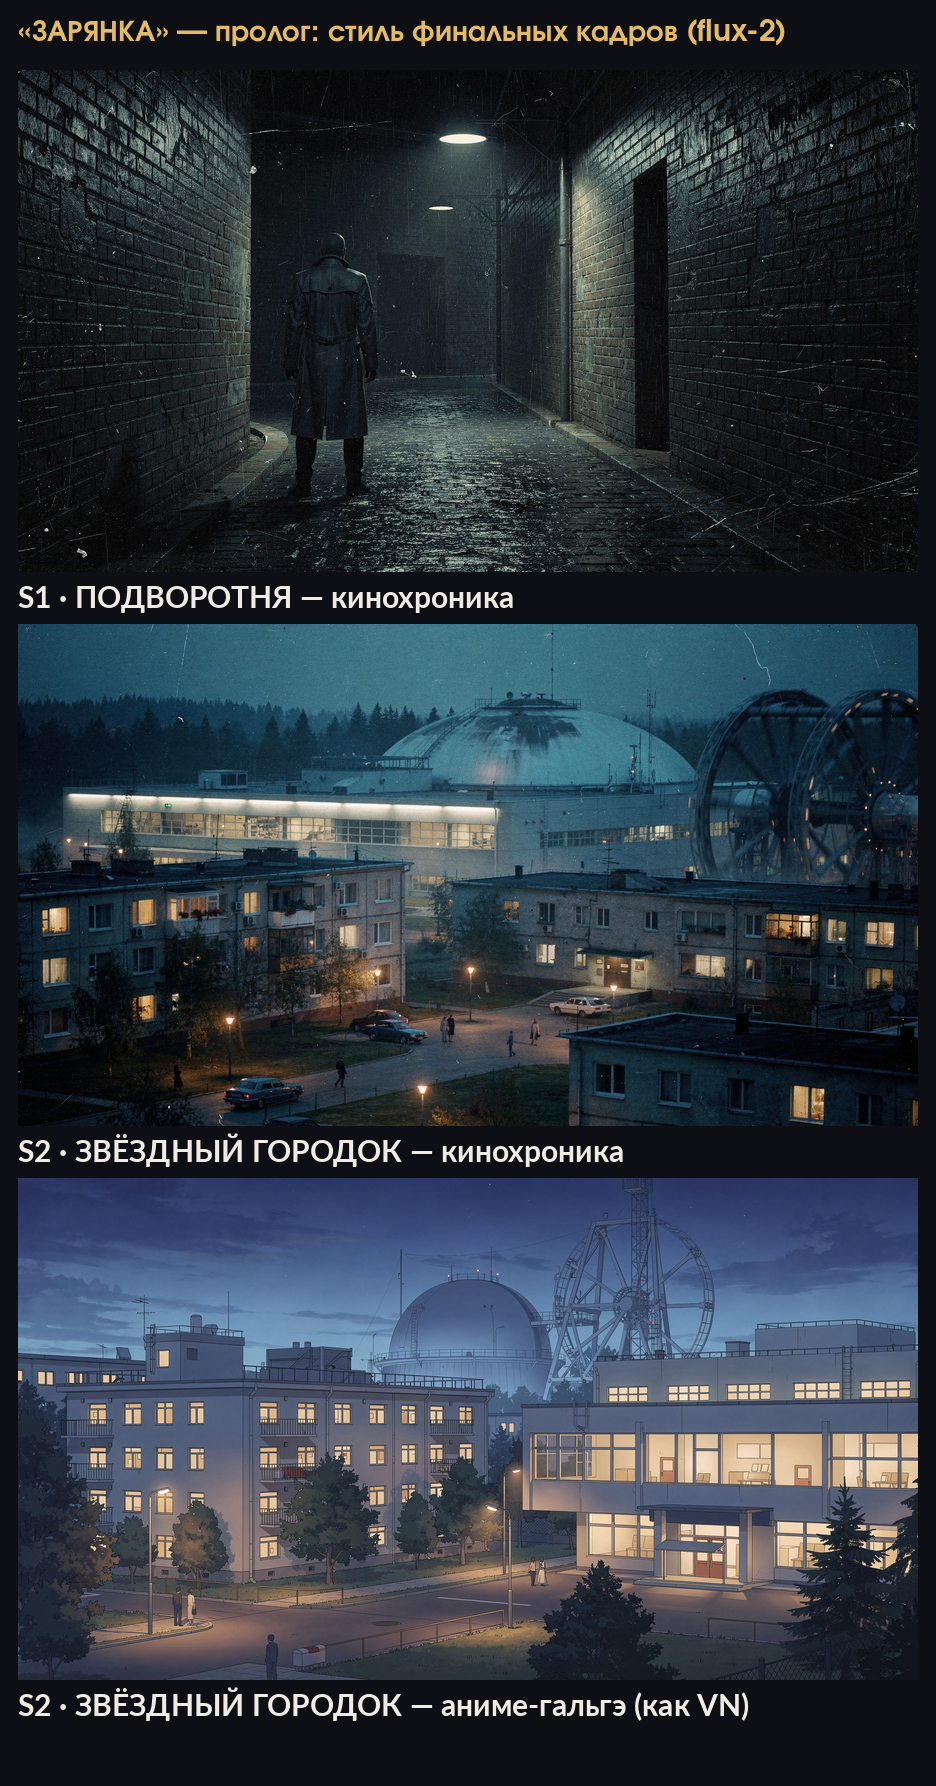
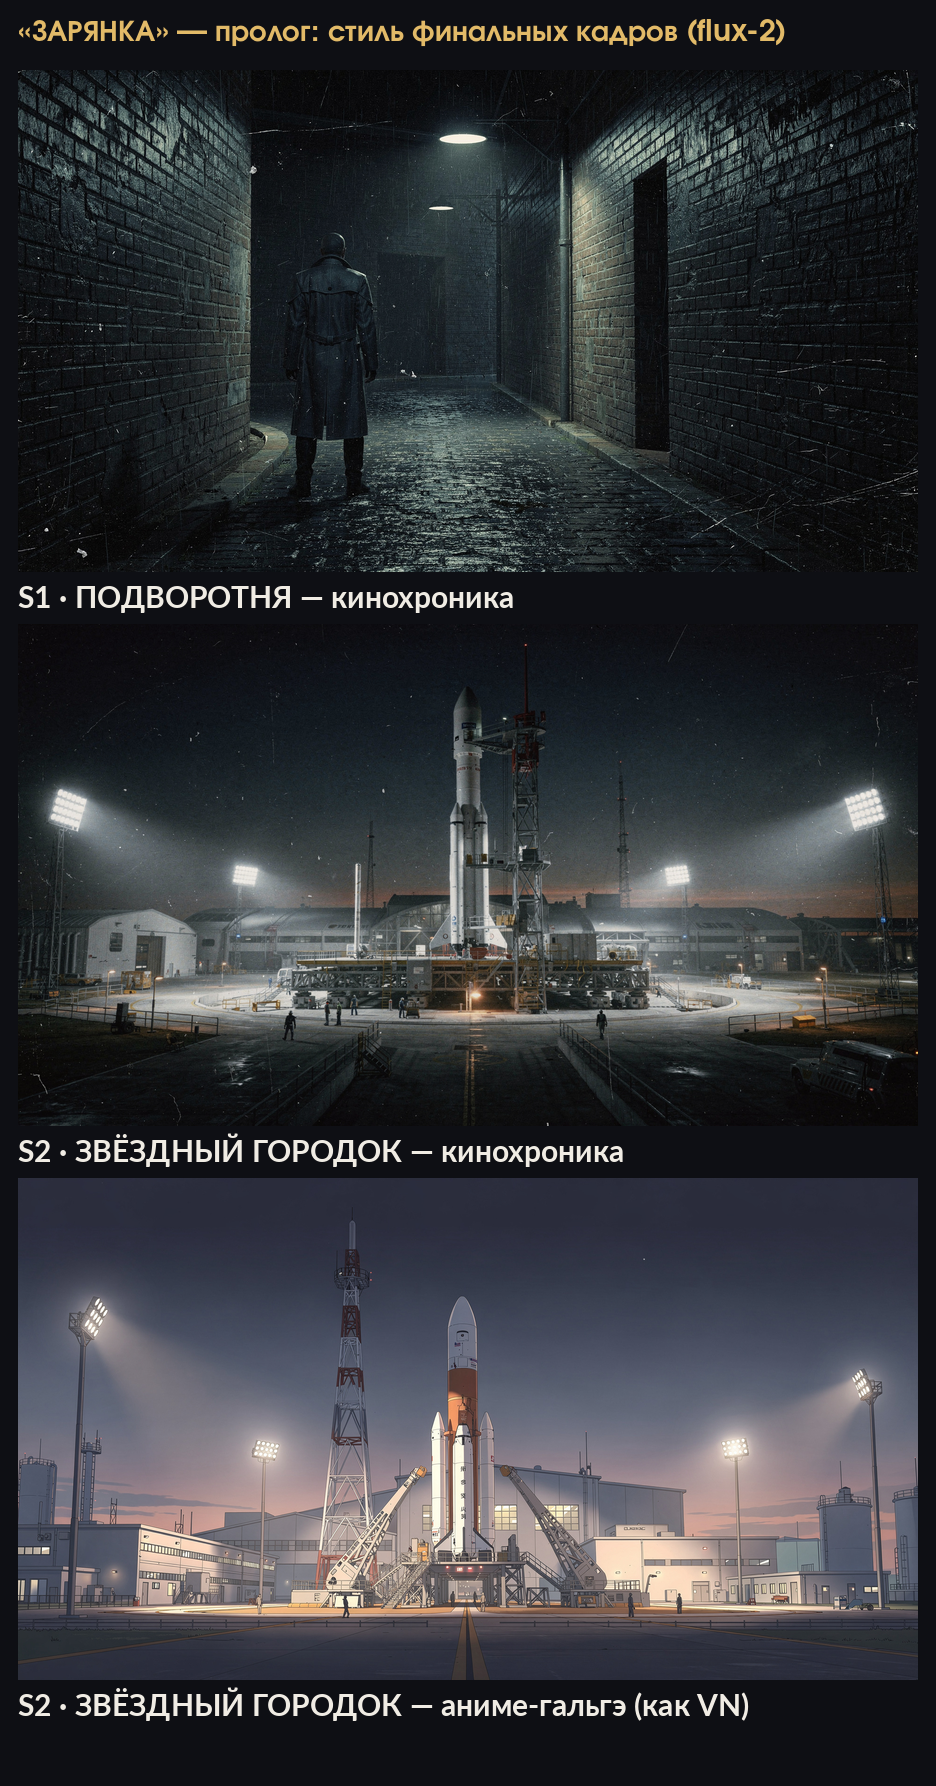
Пролог S2: ракеты возвращены (космодром, ракета вертикально); аниматик пересобран

diff --git a/_prolog_frames.py b/_prolog_frames.py
@@ -95,42 +95,45 @@ for _ in range(220):
 chronicle_tag(d, "ХРОНИКА · 2061")
 save(im, "s1.png")
 
-# ---------------------------------------------------------------- S2 Звёздный городок
-# ВАЖНО (правка заказчика 2026-10-11): Звёздный городок — небольшой городок в Подмосковье,
-# ЦЕНТР ПОДГОТОВКИ КОСМОНАВТОВ (тренажёры, центрифуга, гидролаборатория, медицина).
-# Крупных космических ракет там НЕТ (ракеты — Байконур). Ракету из кадра убрали.
-im = vgrad((FW, FH), (28, 36, 64), (12, 15, 26))
+# ---------------------------------------------------------------- S2 КОСМОДРОМ (ракета)
+# Правка заказчика 2026-10-11: РАКЕТЫ ВОЗВРАЩАЕМ — «ракеты красиво и понятно».
+# В прологе это космодром (Байконур), а Звёздный городок (ЦПК) — отдельной врезкой ПОЗЖЕ.
+im = vgrad((FW, FH), (26, 34, 62), (10, 13, 24))
 d = ImageDraw.Draw(im)
-# закатное зарево
-d.ellipse([1620, 720, 2200, 1180], fill=(54, 50, 72))
-d.rectangle([0, 1120, FW, FH], fill=(14, 16, 24))   # земля
-# жилые дома городка (низкие, тёплые окна)
-for x, w, h in ((120, 300, 190), (450, 260, 230), (740, 300, 200), (1080, 280, 240)):
-    d.rectangle([x, 1120 - h, x + w, 1120], fill=(50, 56, 78))
-    for wy in range(1120 - h + 34, 1120 - 26, 48):
-        for wx in range(x + 24, x + w - 30, 58):
-            d.rectangle([wx, wy, wx + 28, wy + 28], fill=(158, 172, 120))
-# центр подготовки: длинный корпус с окнами
-d.rectangle([1380, 780, 2360, 1120], fill=(58, 64, 88))
-for wx in range(1410, 2340, 74):
-    d.rectangle([wx, 820, wx + 40, 1120], fill=(74, 82, 110))
-d.rectangle([1380, 760, 2360, 800], fill=(78, 86, 112))
-# купол гидролаборатории
-d.pieslice([1560, 560, 1960, 860], 180, 360, fill=(72, 80, 108))
-# центрифуга: башня + вращающаяся стрела
-d.rectangle([850, 800, 910, 1120], fill=(46, 52, 72))
-d.ellipse([852, 762, 908, 818], fill=(122, 130, 152))
-d.line([(880, 790), (1130, 640)], fill=(154, 162, 184), width=14)
-d.ellipse([1112, 622, 1168, 678], fill=(176, 184, 204))
-# прожекторы-мачты
-for x in (600, 1760):
-    d.line([(x, 1120), (x - 36, 900)], fill=(120, 126, 150), width=4)
-    d.ellipse([x - 66, 840, x + 6, 912], fill=(120, 128, 150))
-# люди у корпуса
-for x in range(260, 1340, 150):
-    person(d, x, 1010, 110, (10, 12, 20))
-d.text((1870, 1070), "ЦПК", font=f(GOTHIC, 44), fill=(226, 186, 104), anchor="ma")
-chronicle_tag(d, "ЗВЁЗДНЫЙ ГОРОДОК · ЦЕНТР ПОДГОТОВКИ")
+# предрассветное зарево у горизонта
+d.ellipse([1560, 780, 2320, 1260], fill=(66, 58, 74))
+d.rectangle([0, 1120, FW, FH], fill=(14, 16, 24))   # земля/бетон
+# --- ракета ------------------------------------------------
+cx = 820
+d.polygon([(cx - 96, 1120), (cx - 62, 470), (cx, 250), (cx + 62, 470), (cx + 96, 1120)],
+          fill=(208, 212, 222))
+d.polygon([(cx, 250), (cx + 62, 470), (cx, 430)], fill=(150, 156, 168))
+# ступени и красные пояса
+for yy, ww, col in ((520, 60, RED), (720, 66, (198, 202, 214)), (900, 72, (198, 202, 214)), (1040, 78, (198, 202, 214))):
+    d.rectangle([cx - ww, yy, cx + ww, yy + 58], fill=col)
+# боковые блоки (пакеты первой ступени)
+for sx in (cx - 150, cx + 150):
+    d.polygon([(sx - 34, 1120), (sx - 30, 560), (sx, 470), (sx + 30, 560), (sx + 34, 1120)],
+              fill=(188, 192, 204))
+    d.rectangle([sx - 30, 560, sx + 30, 640], fill=RED)
+# стартовый стол + кабель-мачта
+d.rectangle([cx - 210, 1090, cx + 210, 1130], fill=(40, 44, 58))
+d.rectangle([cx + 210, 360, cx + 256, 1120], fill=(60, 66, 84))
+for gy in range(420, 1100, 90):
+    d.line([(cx + 256, gy), (cx + 104, gy + 30)], fill=(92, 98, 118), width=6)
+# --- модули/ангары справа ---------------------------------
+for i, (x, w, h) in enumerate(((1500, 480, 210), (2040, 420, 170), (560, 260, 130))):
+    col = (56, 64, 90) if i % 2 == 0 else (46, 54, 78)
+    d.rectangle([x, 1120 - h, x + w, 1120], fill=col)
+    d.rectangle([x, 1120 - h, x + w, 1120 - h + 24], fill=(80, 90, 120))
+# --- прожекторы-мачты --------------------------------------
+for x in (380, 1360, 1960):
+    d.line([(x, 1120), (x - 34, 900)], fill=(120, 126, 150), width=4)
+    d.ellipse([x - 64, 840, x + 4, 908], fill=(126, 132, 154))
+# --- люди для масштаба -------------------------------------
+for x in range(1180, 2360, 160):
+    person(d, x, 1010, 120, (10, 12, 20))
+chronicle_tag(d, "КОСМОДРОМ · 2061")
 save(im, "s2.png")
 
 # ---------------------------------------------------------------- S3 вопрос

diff --git a/_prolog_final_frames2.py b/_prolog_final_frames2.py
@@ -16,11 +16,10 @@ ANIME = ("стиль японской визуальной новеллы (galge
          "пастельная палитра, спокойное рассеянное освещение. НЕ фотореализм, НЕ 3D, "
          "НИКАКОГО текста, надписей, букв и логотипов.")
 
-CORE = ("Звёздный городок — небольшой закрытый городок Центра подготовки космонавтов в "
-        "Подмосковье поздним вечером: низкие жилые дома с тёплым светом окон, длинный "
-        "корпус центра подготовки, купол гидролаборатории, вращающаяся центрифуга, "
-        "несколько силуэтов людей, синие сумерки. ВАЖНО: НЕ ракета, НЕ космодром, "
-        "НЕ стартовый стол — только городок и центр подготовки.")
+CORE = ("Космодром ночью: высокая белая многоступенчатая ракета СТОИТ ВЕРТИКАЛЬНО на стартовом "
+        "столе, готова к пуску (не лёжа, не на транспорте). Рядом кабель-мачта и стартовые фермы, "
+        "низкие монтажно-испытательные корпуса и ангары, прожекторы на мачтах, маленькие силуэты "
+        "людей для масштаба, тёмное предрассветное небо, широкий панорамный кадр, ощущение масштаба.")
 
 JOBS = [("prolog_s2_cin_0", CORE, CHRON), ("prolog_s2_anime_0", CORE, ANIME)]
 for name, core, style in JOBS:

diff --git a/_gh_push18.py b/_gh_push18.py
@@ -1,0 +1,26 @@
+# -*- coding: utf-8 -*-
+"""Пуш: ракеты возвращены в S2 (космодром), аниматик пересобран."""
+import os, subprocess
+
+HERE = os.path.dirname(os.path.abspath(__file__))
+KEY = "/home/ivan/.nanobot/workspace/.ssh/github_ed25519"
+KH = "/home/ivan/.nanobot/workspace/.ssh/known_hosts"
+ENV = dict(os.environ, GIT_SSH_COMMAND=(
+    f"ssh -i {KEY} -o IdentitiesOnly=yes -o UserKnownHostsFile={KH} "
+    f"-o StrictHostKeyChecking=no"))
+
+
+def sh(cmd, timeout=900):
+    p = subprocess.run(cmd, shell=True, cwd=HERE, capture_output=True, text=True,
+                       timeout=timeout, env=ENV)
+    return p.returncode, (p.stdout or "").strip(), (p.stderr or "").strip()
+
+
+print("add rc:", sh("git add -A")[0])
+rc, out, err = sh("git diff --cached --stat | tail -2")
+print("stat:", out)
+rc, out, err = sh('git commit -m "Пролог S2: ракеты возвращены (космодром, ракета вертикально); аниматик пересобран" || true')
+print("commit:", (out or err)[:300])
+rc, out, err = sh("git push origin rebuild")
+print("push rc=", rc, out[-200:], "ERR:", err[-200:])
+print("HEAD:", sh("git log --oneline -1")[1])

diff --git a/PROLOG_SHOTLIST.md b/PROLOG_SHOTLIST.md
@@ -16,7 +16,7 @@
 |---|------|------|-------------|--------|------|
 | **P0** | 0:00–0:08 | ИНТРО-ЗНАЧОК (3D К2) | значок в темноте, «дыхание»; поворот на **ребро** — мелькает гравировка-пасхалка `ЛМД · Ц. 67 КОП.`; докрут на **оборот-иллюминатор**; металл тает → вспышка | фикс, лёгкий наезд | муз. **стинг** (искра/звон) |
 | **S1** | 0:08–0:20 | ТЁМНАЯ ПОДВОРОТНЯ | «Кто бросил клич…» — силуэты у стены, всплывает зачёркнутый плакат-вопрос `МАРС — ДЕЛО ОБЩЕЕ?` | фикс + медленный пан | хроника (зерно) + **VO** |
-| **S2** | 0:20–0:34 | ЗВЁЗДНЫЙ ГОРОДОК (ЦПК) | «экспедиция набиралась, модули строились…» — **городок и Центр подготовки космонавтов: корпуса, гидролаборатория-купол, центрифуга, люди. БЕЗ ракет** (крупных ракет там нет — они на Байконуре) | кен-бёрнс (зум/пан) | VO + хроника |
+| **S2** | 0:20–0:34 | КОСМОДРОМ (ракета) | «экспедиция набиралась, модули строились…» — **высокая ракета вертикально на стартовом столе, фермы, корпуса, прожекторы, люди для масштаба** (по правке заказчика: ракеты вернули — «красиво и понятно»; Звёздный городок/ЦПК — отдельной врезкой ПОЗЖЕ) | кен-бёрнс (зум/пан) | VO + хроника |
 | **S3** | 0:34–0:48 | «А ОБЫЧНЫХ ЛЮДЕЙ НЕТ?» | «пока тот самый умник не спросил…» — вопрос на экране, хор энтузиастов `«Общее!»` | фикс + наплыв титра | VO + гул толпы |
 | **S4** | 0:48–1:00 | СЛЕПЛЕННЫЙ РОЛИК | «кто-то слепил видеоролик с нарезкой…» — экран: космос + неудобный вопрос | имитация экрана, glitch | VO, TV-шим |
 | **S5** | 1:00–1:14 | ЛОЗУНГ ОБЛЕТЕЛ СТРАНУ | «через неделю лозунг облетел страну…» — карта, плакаты, Верховный Совет, **2 места «с улицы»** | быстрый монтаж-нарезка | VO + нарастание музыки |
@@ -70,10 +70,10 @@
    издевательский». Причина: в промпте v1 было «лёгкая ирония». Сделана версия **v2**
    (`_prolog_vo2.py` → `assets/audio/vo_prolog2/`): без иронии, сдержанно, «чуть медленнее»;
    плюс **замедление atempo 0.95** при сборке. Длина аниматика v2 = **1:27.6** (≈ 1:28).
-2. **Звёздный городок без ракеты.** Ракету из S2 убрали (это небольшой городок ЦПК в
-   Подмосковье: тренажёры, центрифуга, гидролаборатория, медицина). Мок S2 перерисован;
-   пробы финала (`assets/gen/prolog_s2_cin_0.jpg`, `prolog_s2_anime_0.jpg`) переделаны.
-   **Если нужна ракета — это отдельная врезка на Байконуре (S2b), позже.**
+2. ~~**Звёздный городок без ракеты.**~~ → **ОТМЕНЕНО заказчиком:** ракеты вернули
+   («может я перегнул… ракеты красиво и понятно»). В прологе S2 = **космодром с ракетой**
+   (вертикально на стартовом столе). Звёздный городок/ЦПК — отдельной врезкой ПОЗЖЕ.
+   Мок `assets/mock/prolog/s2.png` и пробы `assets/gen/prolog_s2_{cin,anime}_0.jpg` переделаны.
 3. **Две версии ролика** (выбор «голос — подстрочник»):
    `out/prolog_animatic_draft.mp4` (с закадром) и `out/prolog_animatic_subs.mp4`
    (только подстрочник + музыка). Кадры рендерятся один раз, различается только звук.

diff --git a/STATUS.md b/STATUS.md
@@ -136,6 +136,9 @@
   Мок `assets/mock/prolog/s2.png` перерисован; пробы финала S2 переделаны.
 - **Два варианта ролика** (голос / подстрочник): `out/prolog_animatic_draft.mp4` и
   `out/prolog_animatic_subs.mp4` (1080p, 1:27.6); `_prolog_animatic.py` рендерит кадры один раз.
+- **РАКЕТЫ ВОЗВРАЩЕНЫ** (заказчик 2026-10-11): «может я перегнул, вернём ракеты… красиво и понятно».
+  S2 = космодром, ракета стоит вертикально на старте. Звёздный городок/ЦПК — отдельной врезкой позже.
 - **Открыто у заказчика:** (1) стиль финальных кадров — кинохроника vs аниме-гальгэ (лист review_55);
-  (2) музыка — что куда; (3) уточнить «кнопки голос/подстрочник» (для клипа — два файла; для VN — тумблеры).
+  (2) музыка — что куда; (3) **пасхалки в интро** — гравировка на ребре уже есть (`ЛМД · Ц. 67 КОП.`),
+  идея-ЗЕРКАЛО и прочие — ждём выбора (меню предложено).
   Аниматик — черновик (кадры-моки 0 ₽), платный финал не начат.
